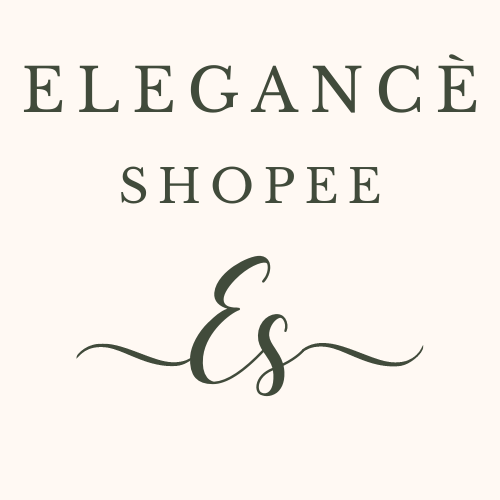
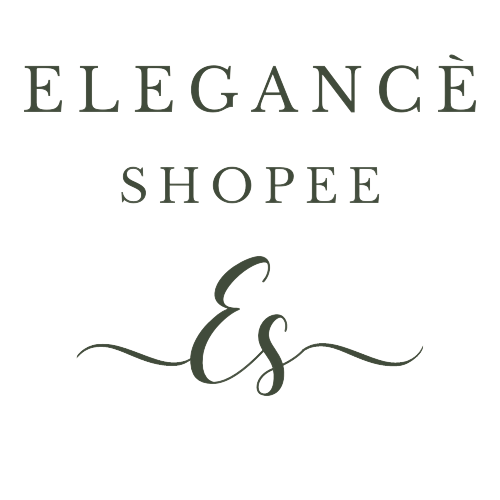
done

diff --git a/index.css b/index.css
@@ -1,3 +1,6 @@
+body{
+  background: url('bg.jpg');
+}
 .img{
     text-align: center;
     margin-bottom: 0%;
@@ -5,38 +8,18 @@
 }
 #btn{
     text-align: center;
+    margin-top: 2%;
 }
 #shop{
     padding: 1%;
     border-radius: 0%;
+
     transition: 0.6s;
      
 }
 #shop:hover{
    
-    border-radius: 25px;
+    border-radius: 30px;
     background-color: black;
     color: white;
-    animation: shake 0.82s cubic-bezier(.36,.07,.19,.97) both;
-    transform: translate3d(0, 0, 0);
-    perspective: 1000px;
-}
-@keyframes shake {
-    10%, 90% {
-      transform: translate3d(-1px, 0, 0);
-    }
-    20%, 80% {
-      transform: translate3d(2px, 0, 0);
-    }
-    
-    30%, 50%, 70% {
-      transform: translate3d(-2px, 0, 0);
-    }
-    40%, 60% {
-      transform: translate3d(2px, 0, 0);
-}
-}
-
-h1{
-    margin-top: 0%;
 }

diff --git a/main.html b/main.html
@@ -2,6 +2,7 @@
 <html lang="en">
 <head>
     <link rel="stylesheet" href="index.css">
+     
     <link rel="stylesheet" href="https://maxcdn.bootstrapcdn.com/bootstrap/3.4.1/css/bootstrap.min.css">
     <link rel="apple-touch-icon" sizes="57x57" href="/apple-icon-57x57.png">
 <link rel="apple-touch-icon" sizes="60x60" href="/apple-icon-60x60.png">
@@ -53,10 +54,11 @@
     <div class="img">
         <img src="Elegancè Shopee (2).png" width="30%">
     </div>
-    <h1 align="center">Elegance' Shopee</h1>
+     
     <div id="btn">
         <button id="shop">SHOPEE !</button>
     </div>
+     
 </body>
 <script src="index.js"></script>
 </html>

diff --git a/pre_page.css b/pre_page.css
@@ -1,7 +1,17 @@
 body{
-    background: black;
+    background:white;
 }
 #loading{
     text-align: center;
     margin-top:5% ;
+}
+@media only screen and (min-width: 300) and (max-width: 500){
+    #loading{
+        margin-top: 30%;
+    }
+}
+@media only screen and (max-width: 800px){
+    #loading{
+        margin-top: 30%;
+    }
 }

diff --git a/index.js b/index.js
@@ -42,4 +42,3 @@
  pg.addEventListener('click',function(){
     location.href = 'https://juniper-mail-4e7.notion.site/0d2c3ac701cc4ff1893193c58954aacf?v=67f9173466544e78ace8b86c7007464f';
  })
-
